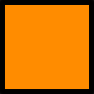
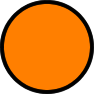
fix mapa y simbolo de HB

diff --git a/apps/electriceye.py b/apps/electriceye.py
@@ -53,7 +53,7 @@ def dibujar_mapa(eventos):
         else:
             lat = row.latitud
             lon = row.longitud
-            if row.tipoevento in ['VT','VD']:
+            if row.tipoevento in ['VT','VD','HB']:
                 size=row.ml*sizescaleml
             else:
                 size=sizescaledr*row.dr
@@ -360,14 +360,14 @@ def elegir_evento(values,marker,cajita,active,panes):
     panelist=np.full(len(values),-5000)
     panelist[index_sel]=5000
     for index,row in eventos.iterrows():
-        if row.tipoevento in ['VT','VD']:
+        if row.tipoevento in ['VT','VD','HB']:
             size=sizescaleml*row.ml
         else:
             size=sizescaledr*row.dr
         colorev.append(dict(iconUrl=app.get_asset_url('img/'+row.tipoevento+'.png?random='+str(random())) , 
                                           iconSize=[size,size],iconAnchor=[size/2,size/2]))
     eventosel=eventos[eventos.index==index_sel]
-    if eventosel.tipoevento.iloc[0] in ['VT','VD']:
+    if eventosel.tipoevento.iloc[0] in ['VT','VD','HB']:
         sizesel = eventosel.ml.iloc[0]*sizescaleml
         icono=app.get_asset_url('img/greydot.fw.png?random='+str(random()))
     else:

diff --git a/scripts_aux/test_map.py b/scripts_aux/test_map.py
@@ -1,0 +1,17 @@
+# -*- coding: utf-8 -*-
+"""
+Created on Mon Mar  1 09:32:34 2021
+
+@author: sergio.morales
+"""
+
+import sys
+sys.path.append('//172.16.40.10/sismologia/pyovdas_lib/')
+import ovdas_figure_lib as ffig
+import ovdas_getfromdb_lib as gdb
+import pandas as pd
+aer = gdb.extraer_eventos('2021-01-01','2021-01-10',volcan='*')
+aer = pd.DataFrame(aer)
+aer = aer[aer.tipoevento=='VT']
+vol = volcanes =gdb.get_metadata_volcan('LagMaule',rep='y')
+ffig.plot_map_REAV_ovdapp(aer.head(1),vol)
